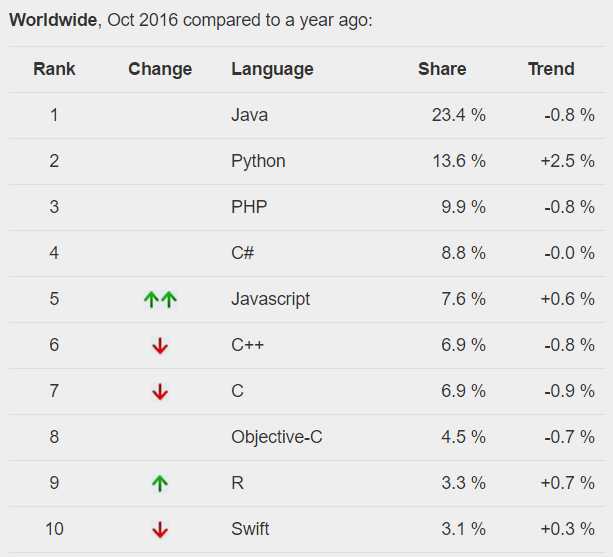
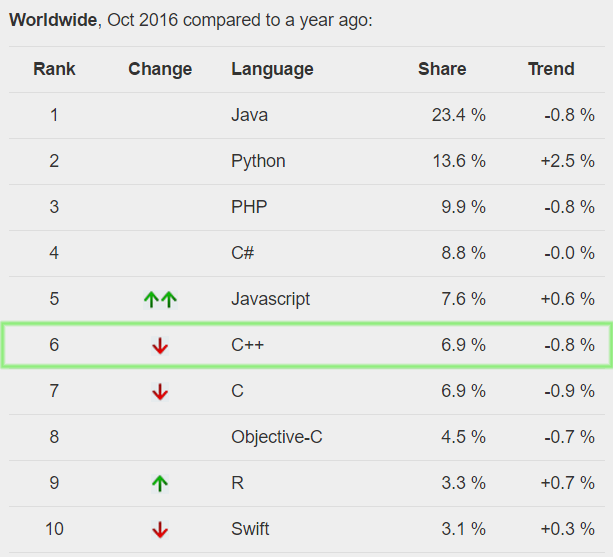
Finishing touches

Changed region(s): [[0.0, 0.5494, 1.0, 0.6715]]

diff --git a/cfront-era.tex b/cfront-era.tex
@@ -17,17 +17,18 @@
         \centering 
         \includegraphics[height=0.8\paperheight]{trying-stuff-until-it-works}
     }
-    %NOTE: These are really good books. I recommend them both.
-    %NOTE: But the interesting fact is the opening line of that book. Bjarne put this text there:
-    \begin{alertblock}<4->{The opening line}
-		\only<1-4>{``C++ is a general purpose programming language designed to make programming more enjoyable for the serious programmer''}
-        \only<5->{\st{``C++ is a general purpose programming language designed to make programming more enjoyable for the serious programmer''}}
-	\end{alertblock}
-    %NOTE: But reviewers weren't happy with that and couldn't believe that it was the main reason. Opening line was changed to below:
-    \begin{block}<5>{The opening line}
-        \textit{``C++ was designed primarily so that the author and his friends would not have to program in assembler, C, or various modern high-level languages. Its main purpose is to make writing good programs easier and more pleasant for the individual programmer''}
-    \end{block}
-    %NOTE: And it was accepted without any problems
+%    %NOTE: These are really good books. I recommend them both.
+%    %TOCHECK: Remove?
+%    %NOTE: But the interesting fact is the opening line of that book. Bjarne put this text there:
+%    \begin{alertblock}<4->{The opening line}
+%		\only<1-4>{``C++ is a general purpose programming language designed to make programming more enjoyable for the serious programmer''}
+%        \only<5->{\st{``C++ is a general purpose programming language designed to make programming more enjoyable for the serious programmer''}}
+%	\end{alertblock}
+%    %NOTE: But reviewers weren't happy with that and couldn't believe that it was the main reason. Opening line was changed to below:
+%    \begin{block}<5>{The opening line}
+%        \textit{``C++ was designed primarily so that the author and his friends would not have to program in assembler, C, or various modern high-level languages. Its main purpose is to make writing good programs easier and more pleasant for the individual programmer''}
+%    \end{block}
+%    %NOTE: And it was accepted without any problems
 }
 
 
@@ -113,7 +114,7 @@
 
 
 \slide{Example code in C++ 1.0}{
-    Improved type checking: % TODO: zaznaczyć 3 kropki na zielono
+    Improved type checking:
     \lstinputlisting[basicstyle=\normalsize]{"src/cfront1_printf.hpp"}
 }
 
@@ -149,9 +150,9 @@
     \begin{enumerate}
         \item multiple inheritance
         \item type-safe linkage
-        \item better resolution of overloaded functions
+%        \item better resolution of overloaded functions
         \item recursive definition of assignment and initialization
-        \item defined memory management
+%        \item defined memory management
         \item abstract classes
         \item static member functions
         \item const member functions

diff --git a/standardization-time.tex b/standardization-time.tex
@@ -6,7 +6,7 @@
     \pause
     \itemstep{
         \item RTTI (dynamic\_cast, typeid)
-        \item covariant return types
+%        \item covariant return types
         \item cast operators
         \item mutable
         \item bool
@@ -47,8 +47,8 @@
         \item containers
         \item algorithms
         \item iterators
-        \item function objects (based on STL)
-        \item locale
+%        \item function objects (based on STL)
+%        \item locale
         \item bitset
         \item valarray
         \item auto\_ptr
@@ -82,10 +82,10 @@
 
 
 \timeSlide{C++03 - Bugfix release}{
-    New feature:
-    \begin{itemize}    
-        \item value initialization
-    \end{itemize}
+%    New feature:
+%    \begin{itemize}    
+%        \item value initialization
+%    \end{itemize}
     Fixes:
     \begin{itemize}
         \item 125 defects fixed
@@ -226,12 +226,13 @@
         \item rvalue references
         \item move constructors / move assignment
         \item scoped enums
-        \item constexpr and literal types
+        \item constexpr
         \item list initialization, brace initializers
         \item delegating constructors
         \item nullptr
-        \item long long, char16\_t and char32\_t
+%        \item long long, char16\_t and char32\_t
         \item type aliases
+        \item smart pointers
     \end{itemize}
 }{
     \draw[thin,blue]
@@ -273,7 +274,6 @@
         \item alignof and alignas
         \item multithreaded memory model
         \item thread-local storage
-        \item smart pointers
         \item range based for loop
         \item static assertions
     \end{itemize}
@@ -309,8 +309,6 @@
 \timeSlide{C++14}{
     New language features:
     \pause
-    Can you name any?
-    \pause
     \begin{itemize}    
         \item generic lambdas
         \item lambda captures expressions
@@ -321,7 +319,7 @@
         \item binary literals
         \item digit separators
         \item deprecated attribute
-        \item C++ sized deallocation
+%        \item C++ sized deallocation
     \end{itemize}
 }{
     \draw[thin,blue]

diff --git a/slides.tex b/slides.tex
@@ -11,12 +11,6 @@
 \end{frame}
 
 \begin{frame}
-  \frametitle{(R)evolution of JS}
-  \centering 
-  \includegraphics[height=0.8\paperheight]{writing-device-drivers-with-js}
-\end{frame}
-
-\begin{frame}
   \frametitle{About the author}
   \begin{columns}
     \column{0.3\textwidth}
@@ -26,12 +20,36 @@
       \includegraphics[height=50pt]{html4-logo} \pause
       \includegraphics[height=40pt]{php-logo} \pause
       \includegraphics[height=50pt]{html5-logo}
-      \includegraphics[height=50pt]{css3-logo} \\ \pause
-      \includegraphics[height=50pt]{c-logo} \pause
-      \includegraphics[height=60pt]{matlab-logo} \\ \pause
-      \includegraphics[height=80pt]{c++-logo} \pause %TODO: Wyszarzyć wszystko poza c++
-      \includegraphics[height=65pt]{python-logo}
+      \includegraphics[height=50pt]{css3-logo} \\
+      \includegraphics[height=50pt]{blank}
+      \includegraphics[height=60pt]{blank} \\
+      \includegraphics[height=80pt]{blank}
+      \includegraphics[height=65pt]{blank}
   \end{columns}
+\end{frame}
+
+\begin{frame}
+    \frametitle{(R)evolution of JS}
+    \centering 
+    \includegraphics[height=0.8\paperheight]{writing-device-drivers-with-js}
+\end{frame}
+
+\begin{frame}
+    \frametitle{About the author}
+    \begin{columns}
+        \column{0.3\textwidth}
+        \includegraphics[height=100pt]{LukaszZiobron}
+        \column{0.7\textwidth}
+        \centering
+        \includegraphics[height=50pt]{html4-logo}
+        \includegraphics[height=40pt]{php-logo}
+        \includegraphics[height=50pt]{html5-logo}
+        \includegraphics[height=50pt]{css3-logo} \\ \pause
+        \includegraphics[height=50pt]{c-logo} \pause
+        \includegraphics[height=60pt]{matlab-logo} \\ \pause
+        \includegraphics[height=80pt]{c++-logo} \pause %TODO: Wyszarzyć wszystko poza c++
+        \includegraphics[height=65pt]{python-logo}
+    \end{columns}
 \end{frame}
 
 

diff --git a/popularity.tex b/popularity.tex
@@ -1,6 +1,7 @@
 \sectionSlide{Language popularity}{languages-popularity}{\paperwidth}{t}
 
 \slide{What is the most popular programming language?}{
+    \pause
     \centering
     \includegraphics[height=0.8\paperheight]{it-depends}
 }
@@ -51,7 +52,6 @@
 \slide{C++ users}{
     \centering 
     \includegraphics[height=0.8\paperheight]{cpp_users} %TODO: Loga firm na wykresie dodać
-    %TODO: wyrzucić pytania, zostawić hasła
 }
 
 
@@ -64,9 +64,8 @@
     }
     \centering 
     \includegraphics<2>[height=0.7\paperheight]{tiobe-graph-grey}
-    %TODO: Na dole zielona krecha C++
     \includegraphics<3>[height=0.7\paperheight]{tiobe-graph}
-    \includegraphics<4>[height=0.7\paperheight]{tiobe-array} % TODO: zaznaczyć gdzie jest C++  
+    \includegraphics<4>[height=0.7\paperheight]{tiobe-array} *
 }
 
 
@@ -107,7 +106,7 @@
 }
 
 
-\imageSlide{langpop-graph} %TODO: Lepiej oznaczyć osie
+\imageSlide{langpop-full}
 
 
 \slide{Stackoverflow issues}{

diff --git a/revolution.tex b/revolution.tex
@@ -17,13 +17,12 @@
 
 %TODO: jakiś obrazek plątaniny porównujący skomplikowanie języka kiedyś i dziś
 %TODO: jakieś zdjęcie z zarzutami
-%TODO: pomyśleć o filmie 
 \slide{stdlib is poor}{
     \begin{columns}
         \begin{column}{0.3\textwidth}
             \begin{itemize}[<+->]
                 \item Some people say that C++ standard library is small...
-                \item In comparison with other languages
+                \item In comparison to other languages
                 \item Examples from presentation \textit{"One C++"} by Herb Sutter
                 \item But it will grow in next standards
             \end{itemize}

diff --git a/future.tex b/future.tex
@@ -2,6 +2,8 @@
 
 
 \timeSlide{C++17}{
+    New features:
+    \pause
     \begin{itemize}
         \item std::variant
         \item if constexpr(expression)

diff --git a/summary.tex b/summary.tex
@@ -40,7 +40,7 @@
 }
 
 
-\slide{What now?}{
+\slide{Famous quotation}{
     \begin{columns}
     \begin{column}{0.7\textwidth}
         \begin{block}{}

diff --git a/c-with-classes.tex b/c-with-classes.tex
@@ -65,6 +65,7 @@
 }
 
 
+%TOCHECK: may be removed
 \timeSlide{First standard library}{
     First elements in std lib:
     \itemstep{
